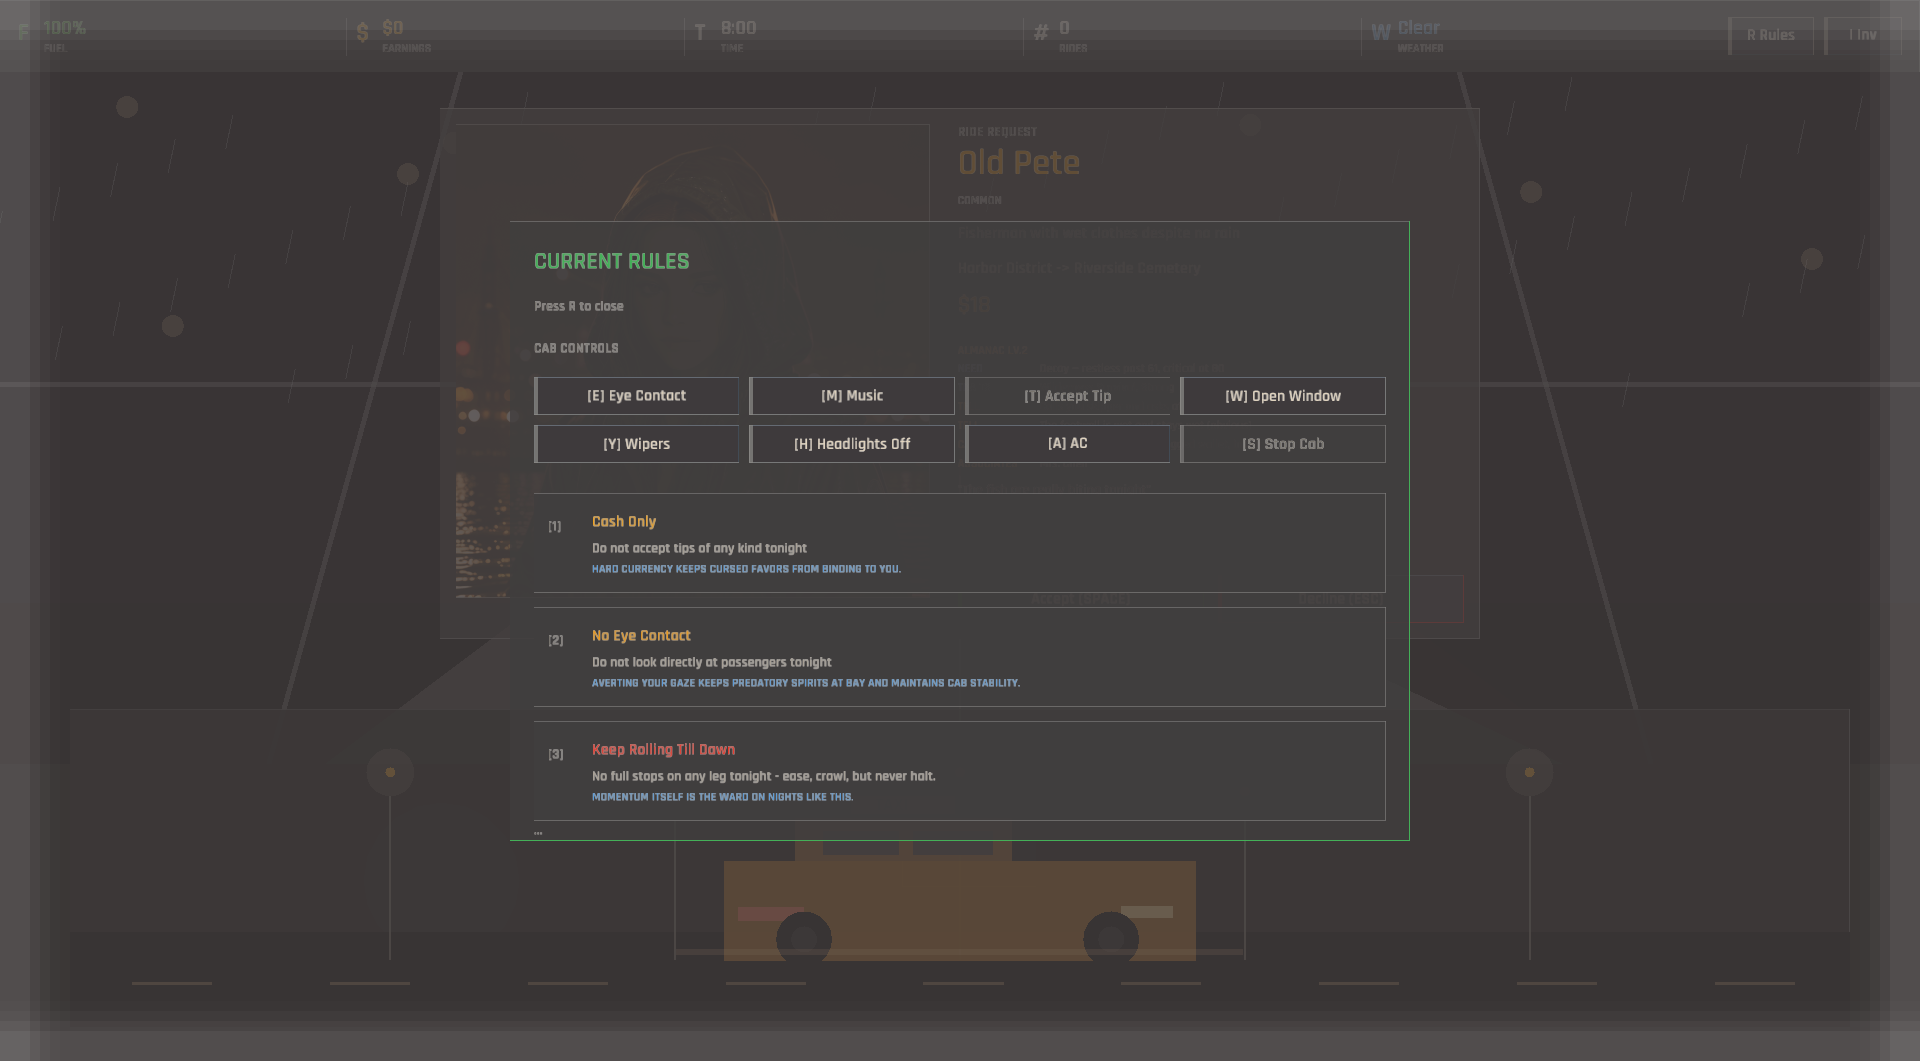
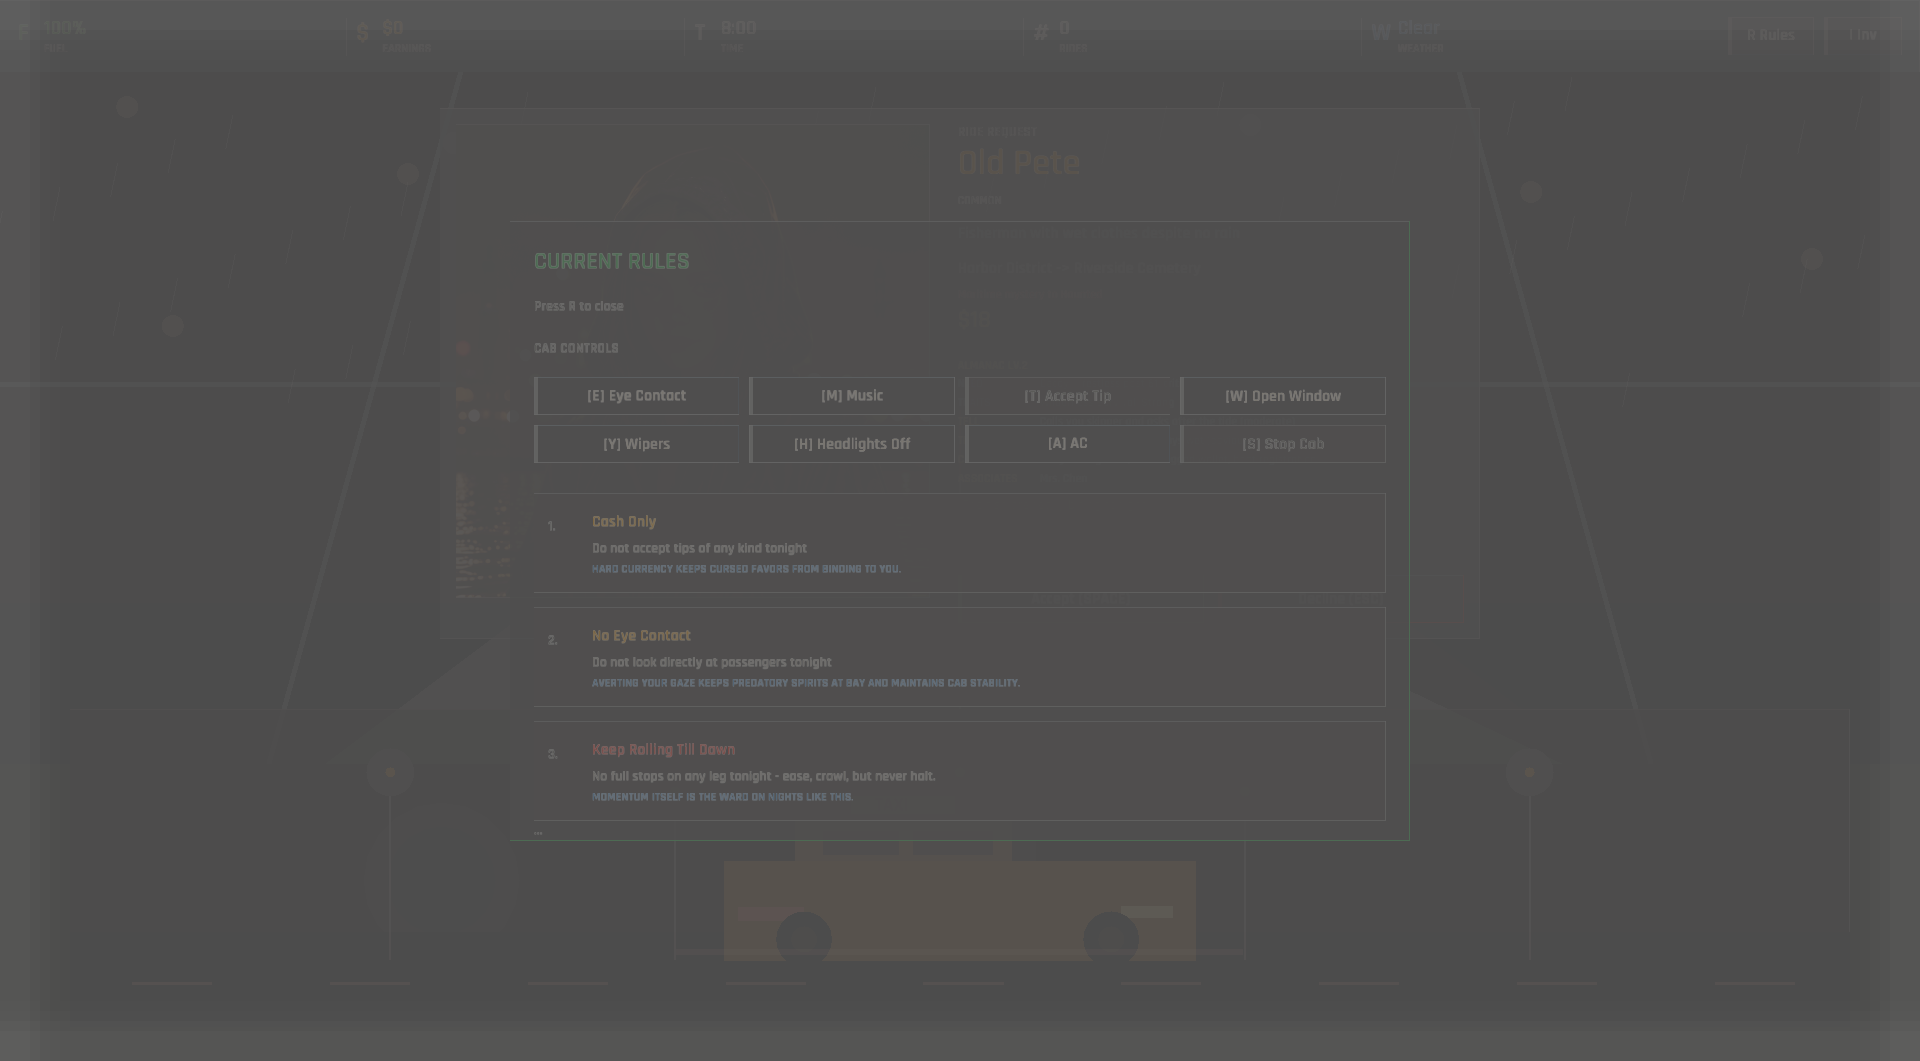
Numbered options answer to their numbers (map the mid-ride event keys; stop numbering rules like bindings)
Last night checked that every key the UI names is read. This is the other
direction — every option the UI numbers should answer to that number — and
it found the same fault one screen along.

The mid-ride event draws its choices as [1], [2], [3], and the Interaction
phase read no digits at all. Those are the same digits that pick a route
in the phase immediately before it, so a player taught the binding by the
driving screen would press it on the next screen and get nothing. The
event now reads them, and the four route bindings and the four event
bindings come from one `number_keys` helper rather than eight hand-written
branches that could drift apart again.

The rules panel numbered its entries the same way, and that one is not a
missing binding but a misleading label: rules are a list to read, not
options to pick, and nothing selects them. They are numbered "1." now, so
brackets mean a key everywhere on screen — which is what the cab controls
beside them, [E] Eye Contact through [S] Stop Cab, have always meant.

A test holds the rule for both phases that number their options: if the
screen numbers them, the input arm must call `number_keys`. Removing the
event branch fails it, which was checked — this time by restoring from a
copy rather than `git checkout`, after last night's revert took the
uncommitted work with it.

Verified with cargo clippy -D warnings, cargo fmt --check, cargo test (104
passed), a playtest bot run, and a recapture of the rules panel showing
[…]

diff --git a/src/engine/input_service.rs b/src/engine/input_service.rs
@@ -54,21 +54,24 @@ impl InputService {
                         Self::capture_cab_controls(&mut actions);
                     }
                     GamePhase::Driving => {
-                        if is_key_pressed(KeyCode::Key1) || is_key_pressed(KeyCode::Kp1) {
-                            actions.push(UiAction::SelectRoute(0)); // Normal
-                        }
-                        if is_key_pressed(KeyCode::Key2) || is_key_pressed(KeyCode::Kp2) {
-                            actions.push(UiAction::SelectRoute(1)); // Shortcut
-                        }
-                        if is_key_pressed(KeyCode::Key3) || is_key_pressed(KeyCode::Kp3) {
-                            actions.push(UiAction::SelectRoute(2)); // Scenic
-                        }
-                        if is_key_pressed(KeyCode::Key4) || is_key_pressed(KeyCode::Kp4) {
-                            actions.push(UiAction::SelectRoute(3)); // Police
+                        for (index, key) in Self::number_keys().enumerate() {
+                            if is_key_pressed(key.0) || is_key_pressed(key.1) {
+                                actions.push(UiAction::SelectRoute(index));
+                            }
                         }
                         Self::capture_cab_controls(&mut actions);
                     }
                     GamePhase::Interaction => {
+                        // The mid-ride event draws its options as [1], [2],
+                        // [3] and read no number keys, so the brackets were a
+                        // promise the screen could not keep. The same digits
+                        // pick a route one phase earlier, which is where a
+                        // player would have learned to expect them.
+                        for (index, key) in Self::number_keys().enumerate() {
+                            if is_key_pressed(key.0) || is_key_pressed(key.1) {
+                                actions.push(UiAction::SelectEventChoice(index));
+                            }
+                        }
                         if is_key_pressed(KeyCode::Space) {
                             actions.push(UiAction::Continue);
                         }
@@ -118,6 +121,18 @@ impl InputService {
         }
 
         actions
+    }
+
+    /// The digits 1-4, top row and keypad, in the order the screens number
+    /// their options.
+    fn number_keys() -> impl Iterator<Item = (KeyCode, KeyCode)> {
+        [
+            (KeyCode::Key1, KeyCode::Kp1),
+            (KeyCode::Key2, KeyCode::Kp2),
+            (KeyCode::Key3, KeyCode::Kp3),
+            (KeyCode::Key4, KeyCode::Kp4),
+        ]
+        .into_iter()
     }
 
     fn capture_cab_controls(actions: &mut Vec<UiAction>) {
@@ -185,6 +200,47 @@ mod tests {
             arm.contains("ReturnToMenu"),
             "ESC on the outcome screens does not do what the button says"
         );
+    }
+
+    /// A screen that numbers its options in brackets is promising number
+    /// keys, and every phase that does so must read them.
+    ///
+    /// The mid-ride event drew [1], [2], [3] beside its choices and the
+    /// Interaction phase read no digits at all — the same digits that pick a
+    /// route one phase earlier. A player taught the binding by the driving
+    /// screen would press it on the next screen and nothing would happen.
+    #[test]
+    fn every_phase_that_numbers_its_options_reads_the_digits() {
+        let input = include_str!("input_service.rs");
+
+        for (phase, screen_source) in [
+            (
+                "GamePhase::Driving",
+                include_str!("../screens/game_screens/driving.rs"),
+            ),
+            (
+                "GamePhase::Interaction",
+                include_str!("../screens/game_screens/interaction.rs"),
+            ),
+        ] {
+            // The screen advertises digits by numbering its options.
+            assert!(
+                screen_source.contains(r#"format!("[{}]", i + 1)"#)
+                    || screen_source.contains(r#""[1]""#)
+                    || screen_source.contains("key_hint"),
+                "{phase}'s screen no longer numbers its options; update this test"
+            );
+
+            let arm = input
+                .split(&format!("{phase} => {{"))
+                .nth(1)
+                .unwrap_or_else(|| panic!("{phase} has no input arm"));
+            let arm = &arm[..arm.find("GamePhase::").unwrap_or(arm.len())];
+            assert!(
+                arm.contains("number_keys()"),
+                "{phase} numbers its options and reads no digits"
+            );
+        }
     }
 
     /// The guideline decision is the only timed choice, so it must be

diff --git a/src/screens/game_screens/modals.rs b/src/screens/game_screens/modals.rs
@@ -312,7 +312,9 @@ pub fn draw_rules_panel(game_state: &GameState, game_data: Option<&GameData>) ->
             data::Difficulty::Nightmare => colors::ACCENT_DANGER,
         };
 
-        let key = format!("[{}]", rule_idx + 1);
+        // Plain numbering: rules are a list, not a set of options, and
+        // bracketed digits read as key bindings everywhere else on screen.
+        let key = format!("{}.", rule_idx + 1);
         draw_small_caps(
             &key,
             card.x + 14.0,
